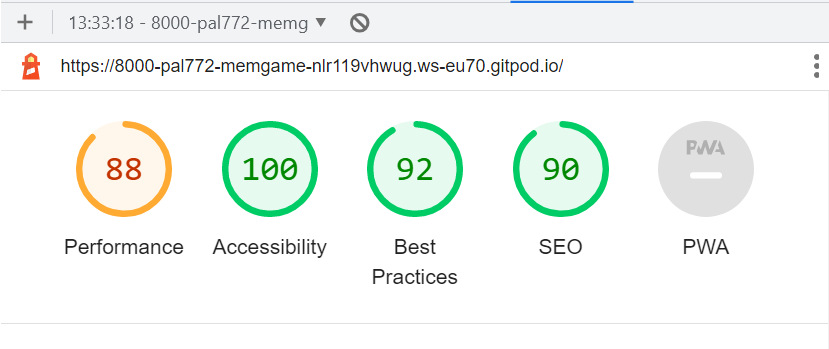
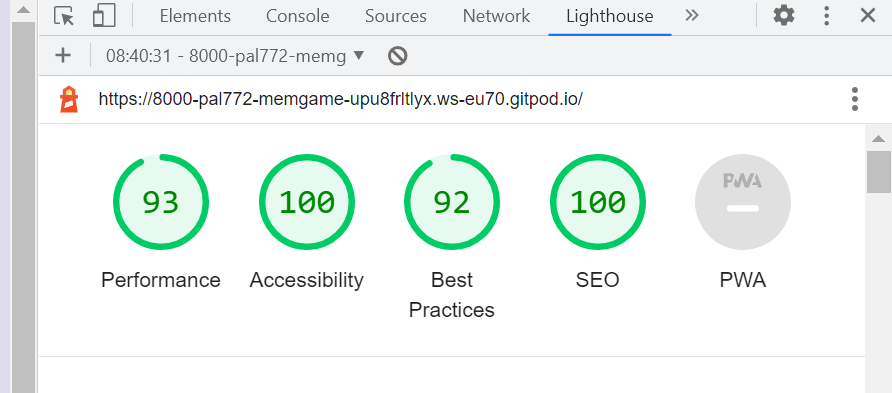
Final information added to readme.md

diff --git a/index.html b/index.html
@@ -1,9 +1,13 @@
 <!DOCTYPE html>
 <html lang="en">
+
 <head>
     <meta charset="UTF-8">
     <meta http-equiv="X-UA-Compatible" content="IE=edge">
     <meta name="viewport" content="width=device-width, initial-scale=1.0">
+    <meta name="description" content="This is Portfolio Project#2 created by Prithpal Phull">
+    <meta name="keywords" content="memory, game, JavaScript">
+    <meta name="author" content="Prithpal Phull">
 
     <!-- font awesome and google fonts-->
     <link rel="preconnect" href="https://fonts.googleapis.com">
@@ -16,20 +20,17 @@
     <link rel="icon" type="image/png" sizes="32x32" href="/favicon-32x32.png">
     <link rel="icon" type="image/png" sizes="16x16" href="/favicon-16x16.png">
 
-
-
-
-
-    <title>Memory Game</title>
+    <title>Car Memory Game</title>
     <link rel="stylesheet" href="assets/css/style.css">
 </head>
+
 <body>
     <div class="head">
         <h1>Car Memory Game</h1>
         <div class="score">Score: <span>0</span></div>
     </div>
 
-        <div class="container">
+    <div class="container">
         <div class="cell">
             <div class="front" data-index="1"><img src="assets/images/1.png" alt=""></div>
             <div class="back"></div>
@@ -82,10 +83,12 @@
 
     <footer>
         <!-- Social media links-->
-        <a href="https://github.com/pal772/mem-game" target="_blank" title="Visit mt GitHub profile and project repository">
+        <a href="https://github.com/pal772/mem-game" target="_blank"
+            title="Visit mt GitHub profile and project repository">
             <i class="fa-brands fa-github social-icons"></i></a>
 
-        <a href="https://www.linkedin.com/in/prithpal-phull-7a4718244" target="_blank" title="Visit my LinkedIn profile"><i class="fa-brands
+        <a href="https://www.linkedin.com/in/prithpal-phull-7a4718244" target="_blank"
+            title="Visit my LinkedIn profile"><i class="fa-brands
         fa-linkedin social-icons"></i></a>
     </footer>
 

diff --git a/README.md b/README.md
@@ -29,7 +29,6 @@ allowing a user to actively engage with visual images.
     *   [Frameworks, libraries & software used](#languages-used)
     *   [Testing](#testing)
     *   [Lighthouse](#lighthouse)
-    *   [Performance](#performance)
     *   [Validation](#validation)
     *   [HTML](#html)
     *   [CSS](#css)
@@ -43,9 +42,8 @@ allowing a user to actively engage with visual images.
     *   [Credits](#credits)
     *   [Code](#code)
     *   [Media](#media)
+    *   [Learning-Resorces](#learning-resources)
     *   [Acknowledgements](#acknowledgements)
-
-
 
 #   Project
 ##  Strategy/Scope
@@ -54,7 +52,7 @@ This Car Memory Game is an entertainment app intended for anyone who wants to te
 
 <br>
 
- The content is presented on a single page that display's car images depending on the user action. The <b>Primary goal</b> Is to get the user's visual attention, for them to concentrate and focus. <b>The secondary objective</b> Is to entertain the user during the game. With this in mind the website's design provides visual images of cars. 
+ The content is presented on a single page that display's car images depending on the user's action.<br>The <b>Primary goal</b> is to get the user's visual attention, for them to concentrate and focus.<br>The<b> secondary objective</b> is to entertain the user during the game. With this in mind the website's design provides visual images of cars. 
 
  To achieve the games intension, I implemented following features:
 
@@ -95,10 +93,7 @@ This Car Memory Game is an entertainment app intended for anyone who wants to te
   - The images are of cars, which i'm a big fan of.
   - The cars are only silver or red, which makes the game a bit more difficult. 
   - The user needs to concentrate to pair up all the same cars to complete the game.
-  - There are two links at the bottom of the page.
-  - One is for my github page.
-  - The other one is for my LinkedIn page.
-   
+  - There are two links at the bottom of the page, my github and LinkedIn page.
 
 #   User Experience (UX)
 
@@ -124,9 +119,9 @@ I also choose only 2 different colour cars, so that the user has to concemtrate 
 
 ##  Structure
 
-The main page is designed in a very simple way and easy to use. So that the user understands straight 
-away how to play the game.
-It has 4 boxes along and 3 down, with a total of 12 hidden car images. 
+The main page is designed in a very simple way and easy to use. So the user understands straight 
+away how to play the game.<br>It has 12 boxes in total, with 6 diffrent car images, 2 two images 
+the same which needs to be pair up.
 
 ![stucture](assets/readme-images/structure.png)
 
@@ -148,23 +143,20 @@ It has 4 boxes along and 3 down, with a total of 12 hidden car images.
 
 - [GitPod](https://www.gitpod.io) - Used to code the project.
 
-- [Yahoo images](https://uk.images.search.yahoo.com/search/images/porsche;) - Yahoo was used to sourse the images for this game.
+- [Yahoo images](https://uk.images.search.yahoo.com/search/images/porsche) - Yahoo was used to source the images for this project.
 
 - [Am I Responsive](https://ui.dev/amiresponsive) - Online tool used to create mockup to present responsive design of this project.
 
 - [Lighthouse](https://developers.google.com/web) - Google WebDev tool used for performance/accesibility testing.  
 
-- [Favicon.io](https://www.favicon.io) - Tool used to create favicon.<br>I choose a thinking bubble image for my URL/website icon.
+- [Favicon.io](https://www.favicon.io) - Used favicon.<br>I choose a thinking bubble image for my URL/website icon.
 
 ## Lighthouse
 
- [Lighthouse](https://developers.google.com/web) - Google webdev tool used for performance testing showing just below maximum score.
+ [Lighthouse](https://developers.google.com/web) - Used Google DevTools to check on the 
+ games performance, accessibility, best practices and SEO.
 
 ![Lighthouse](assets/readme-images/lighthouse.png)
-
-## Performance
-
-![Lighthouse](assets/readme-images/performance.png)
 
 ## Validation
 
@@ -178,8 +170,6 @@ Result for HTML Checker
 ### CSS
 
 - [W3C CSS Validator](https://jigsaw.w3.org/css-validator/#validate_by_input)  - validation service used.
-
-- No errors found on my final test.
 
 ![Validator CSS](assets/readme-images/w3c-checker-pass.png)
 
@@ -212,18 +202,19 @@ the value to 300 and also added the px, which worked perfect.
 
 ### Java script
 
-- Found 20 errors in my javascript test. Which obviously got fixed.
-- Ended up with 2 warnings<br>'Function declared within loops referencing an outer scoped variable
-may lead to confusing semantics'.<br> I'll look into that with more detail in the future.
+- Found 20 warnings when testing javaScript code.
+- Some were simple, missing semicolons.
+- Ended up with 2 warnings - <br>"Function declared within loops referencing an outer scoped variable
+may lead to confusing semantics".<br> I'll look into that with more detail in the future.
 
 ![JS Hint](assets/readme-images/jshint-errors.png)
 
+### Lighthouse
 
+- For future reference - Performance can be improved by image size and render-blocking.
+- For future reference - Best practices, improve on displaying images with correct aspect ratio.
 
-
-
-
-
+![Lighthouse](assets/readme-images/lighthouse.png)
 
 ##   Browser compatibility
 
@@ -237,9 +228,57 @@ Website was tested manually on Apple Iphone X, Apple iphone 6/7/8 plus, Apple iP
 
 I confirmed that this website is responsive and all the functions are displayed correctly.
 
+![Responsive](assets/readme-images/responsive1.png)
+
+## Peer review
+
+I asked my friends and coleagues to test the application and I received a lot of positive feedback, no major 
+issues were reported.
+For future reference need to improve image quality and size. And add levels and a timer.
 
 
+#   Deployment
 
+The project was deployed to GitHub Pages using the following steps:  
+
+1. Log in to GitHub and locate the [mem-game](https://github.com/pal772/Mem-Game) repository. 
+2. Locate the "Settings" Button on the menu.
+3. Scroll down the Settings page until you locate the "Pages" in "Code and automation" section.
+4. Under "Source", click the dropdown called "Select branch:" and select "Main", click the dropdown called "Select folder" and select "/root".
+5. The page will automatically refresh and you receive message "Your site is published at https://pal772.github.io/Mem-Game/". Result below: 
+
+![Deployment](assets/readme-images/deployment.png)
+
+<br>
+
+#   Credits
+
+## Code
+
+-   Mentor - Sammy Dartnall helped me with warnings i had on my JavaScript testing.
+(use 'esversion: 6') or Mozilla JS extensions.<br>Got fixed by clicking on "configure" and scroll down to the bottom of the page and selecting "Mozilla JavaScript extentions".
+
+## Media
+
+Content
+
+- [Yahoo images](https://uk.images.search.yahoo.com/search/images/porsche) - All images sourced from Yahoo.
+- [Favicon.io](https://www.favicon.io) - Used favicon to choose my URL/website icon.
+- [font awesome](https://fontawesome.com/) - Icons used on the footer.
+- [google fonts](https://fonts.google.com/) - Fonts used on this project.
+- [am i responsive](https://ui.dev/amiresponsive) - Main image used on Preview README.md
+
+
+## Learning resources
+
+- [Code Institute course and learning platform](https://codeinstitute.net/)
+- [W3Schools](https://www.w3schools.com/js/default.asp)
+- [Youtube](https://www.youtube.com/)
+
+##  Acknowledgements
+
+-   My Sammy Dartnell for helpful feedback and guidance on stages of the project. 
+-   Code Institute Slack Community for being a great knowledge base.
 
 
 
